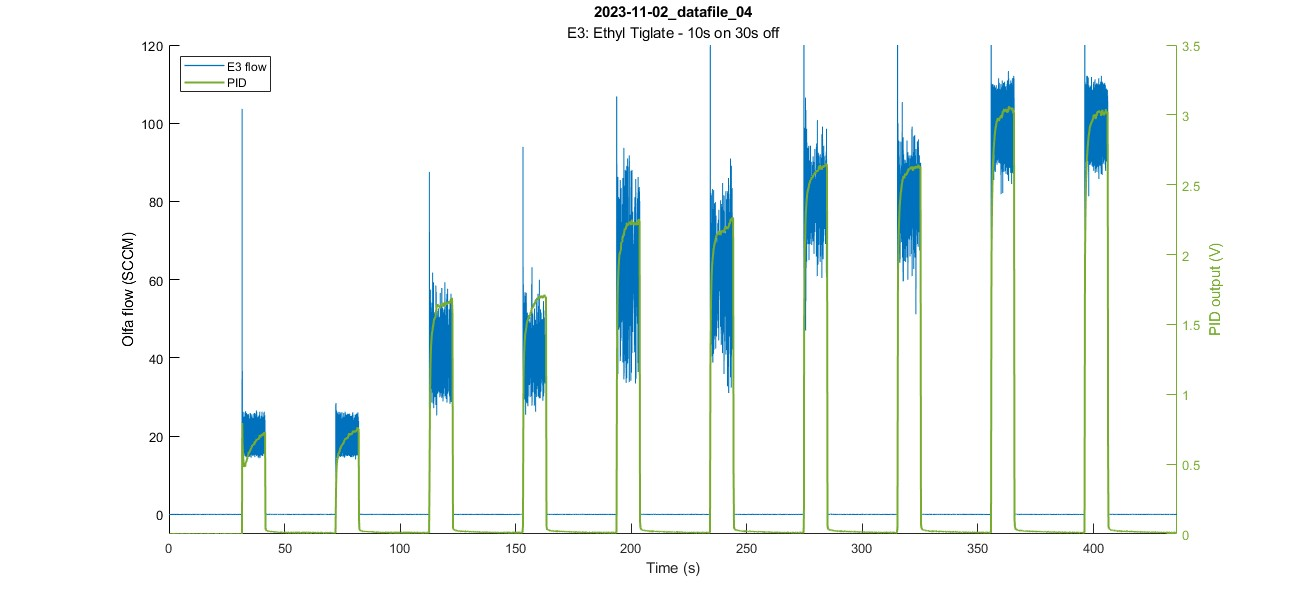
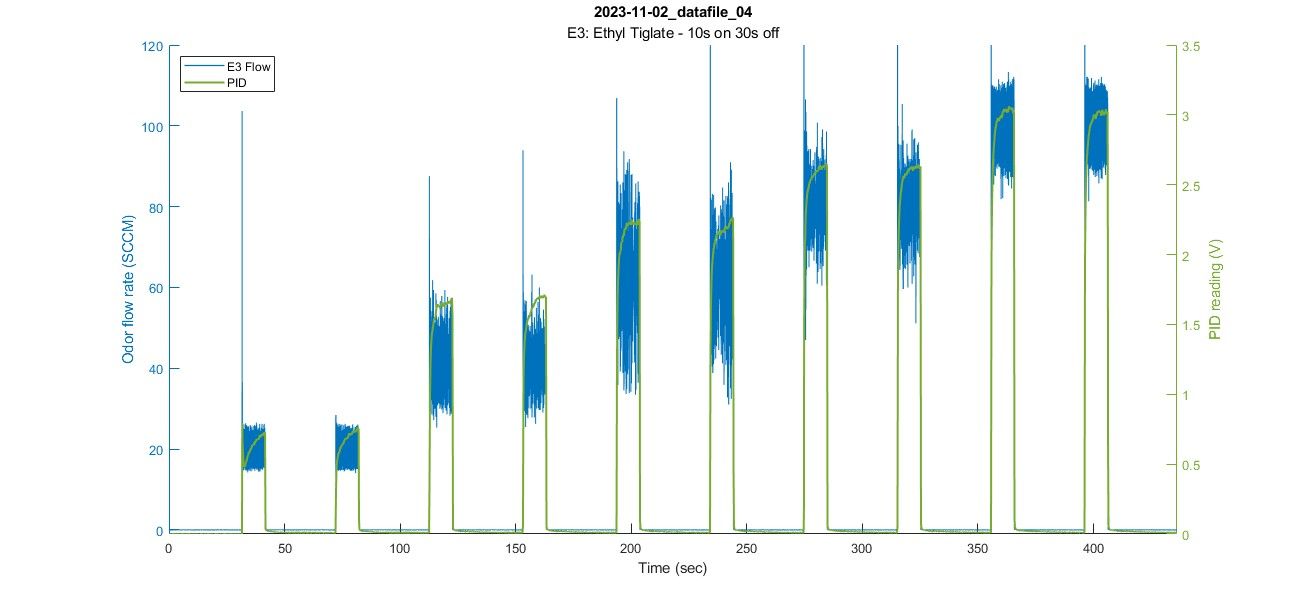
Analysis: plot_olfa_and_pid - Added example image to README (& Updated example image to match current default variables)

diff --git a/analysis/Documentation/README_a_plot_olfa_and_pid.md b/analysis/Documentation/README_a_plot_olfa_and_pid.md
@@ -11,6 +11,10 @@ Plot olfactometer & PID data over time
 
 ## Examples
 
+**Default:**  
+Plots olfa flow (SCCM) and PID over time  
+`a_plot_olfa_and_pid('2023-11-02_datafile_04',pid_lims=[0 3.5]);`  
+<p align="center"><img src="images/examples/plot_olfapid_default.jpg" width="50%"></p>
 
 ## Function Details
 ** need to finish  
